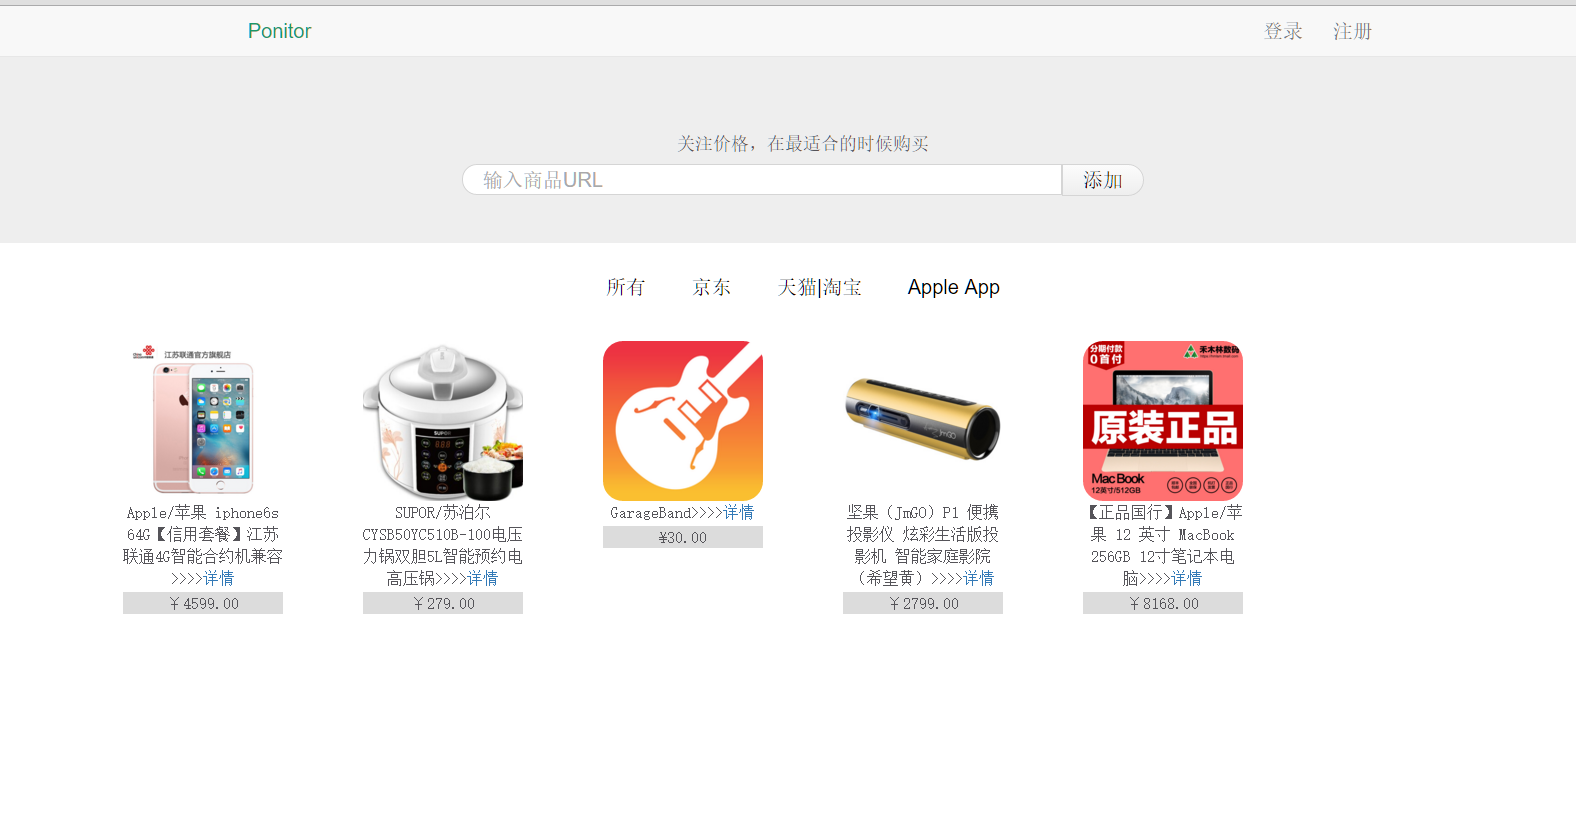
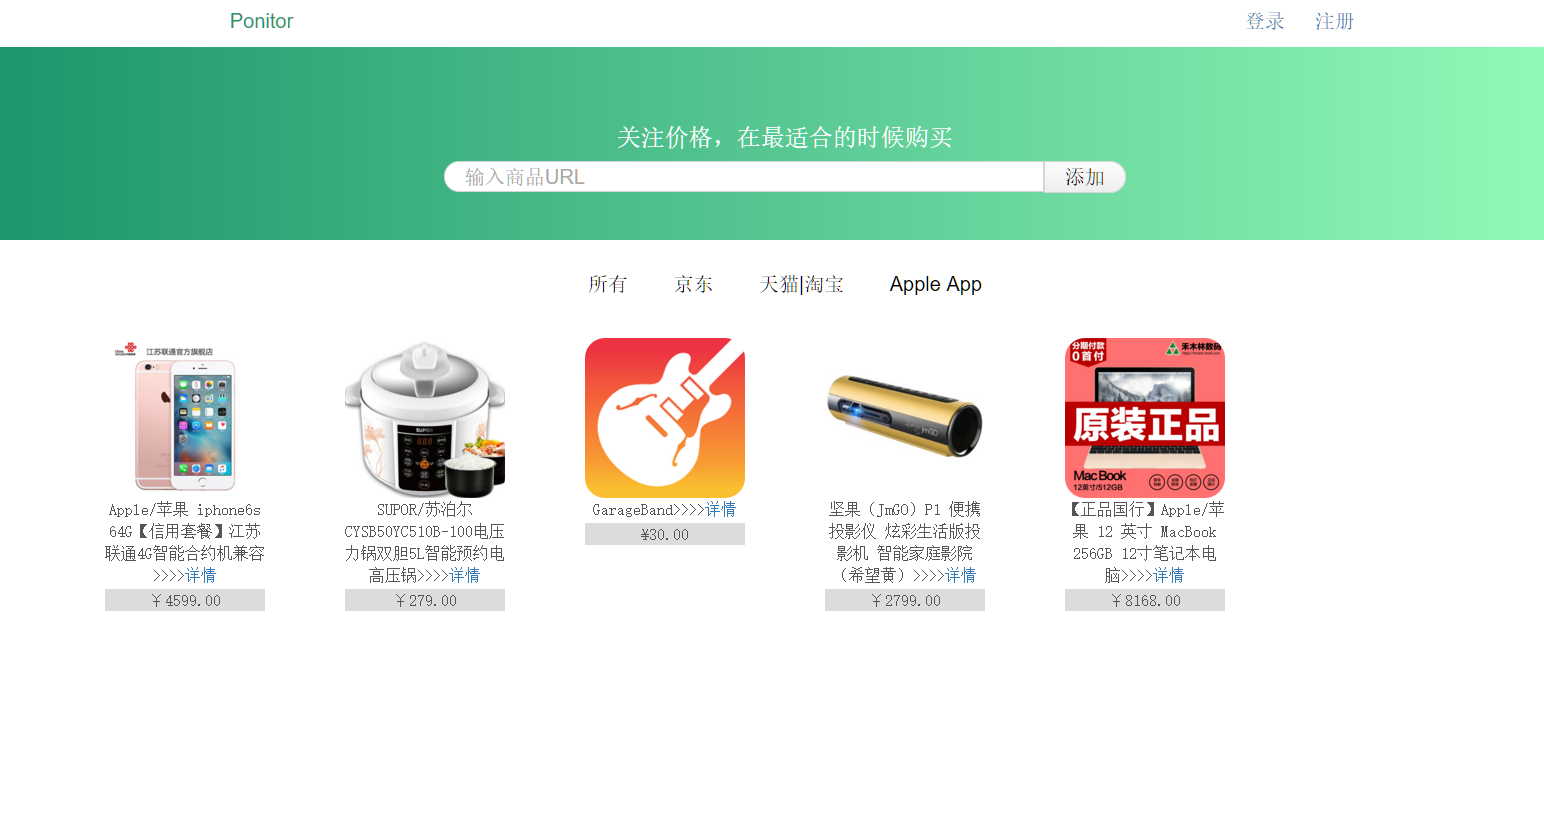
update style

diff --git a/src/components/menu.vue b/src/components/menu.vue
@@ -1,5 +1,5 @@
 <template>
-<div class="jumbotron">
+<div id="menu" class="jumbotron">
   <div class="container" id="add">
       <h4>关注价格，在最适合的时候购买</h4>
       <input class="control-input" v-model="goodUrl" @keyup.enter="add" type="text" placeholder="输入商品URL"><a href="javascript:void(0)" @click="add">添加</a>
@@ -64,6 +64,13 @@
   }
 </script>
 <style>
+    #menu{
+      background: linear-gradient(90deg,#1d976c 10%,#93f9b9 90%);
+      h4{
+        font-size:1.2em;
+        color: white;
+      }
+    }
 	 #add{
       text-align: center;
       margin-top: 1em;

diff --git a/src/components/header.vue b/src/components/header.vue
@@ -1,5 +1,5 @@
 <template>
-<header class="navbar navbar-static-top navbar-default" id="top" role="banner">
+<header class="navbar navbar-static-top" id="top" role="banner">
     <div class="container">
         <div class="navbar-header"></div >
         <div  id="bs-navbar" class="collapse navbar-collapse">
@@ -38,7 +38,7 @@
       margin-bottom:0px;
   }
   #logo{
-    color:#19986B;
+    color:#1d976c;
   }
    
 </style>

diff --git a/src/schedule/detect.js b/src/schedule/detect.js
@@ -63,7 +63,7 @@ function cronSchedule(){
 	detect().then(() => console.log('detecting finsihed!'));
 }
 //启动的时候执行一次
-cronSchedule();
+// cronSchedule();
 //每2小时执行监测一次
 let j = schedule.scheduleJob('* */2 * * *', () => cronSchedule());
 
